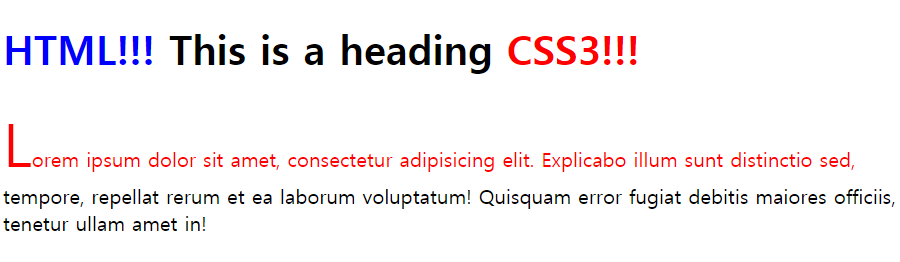
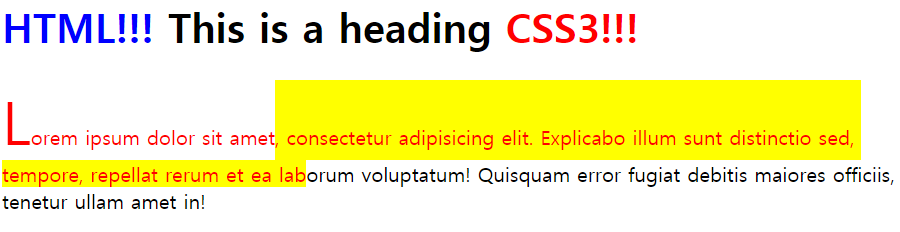
[update]  210916 review

diff --git a/CSS/universalSelector.html b/CSS/universalSelector.html
@@ -19,7 +19,6 @@
         <li>Milk</li>
       </ul>
   </div>
-
   <div>
     <p>The first paragraph.</p>
     <ul>
@@ -28,7 +27,6 @@
       <li>Milk</li>
     </ul>
   </div>
-
   <div>A range of document</div>
     <h2>Another list</h2>
     <ul>

diff --git a/CSS/02. 선택자(셀렉터).md b/CSS/02. 선택자(셀렉터).md
@@ -1,8 +1,8 @@
-# 선택자(셀럭터)
-HTML에 style을 적용하고자 하는 HTML 요소를 특정하는 목적으로 선택자(selector)를 사용합니다.
+# 선택자(셀렉터)
+HTML에 style을 적용하고자 하는 HTML 요소를 특정하는 목적으로 선택자(selector)를 사용합니다. 복수개의 선택자를 쉼표(,)를 이용해 구분할 수 있습니다.
 ![CSS Rule Set 예제](./images/css-syntax.png)
 
-복수개의 선택자를 쉼표(,)를 이용해 구분할 수 있다.<br>
+
 ✨ **예시**
 
 ```css
@@ -151,7 +151,6 @@ class 속성 값은 공백으로 구분하여 여러 개 지정할 수 있습니
   
 ![ClassSelector 예제](./images/ClassSelector.png)
 
-
 ## 3. 속성 선택자(Attribute Selector) -  [attr], [attr=value]
 |패턴|Description|
 |---|---|
@@ -179,6 +178,14 @@ input[type="submit"]{
 🧪 **[실행결과](attrEx1.html)**
 
 ![attrEx1 예제](./images/attrEx1.png)
+
+
+
+```css
+/* class="check"로 되어 있는 모든 `<input type="checkbox">` 요소의 스타일을 선택하는 Selector */
+input[type="checkbox"].check
+```
+
 
 ## 4. 속성 선택자 - [attr^], [attr$], [attr*]
 |패턴|Description|
@@ -279,8 +286,8 @@ li:first-child {
 
 |pseudo-class|Description|
 |---|---|
-|:nth-child(n)|셀렉터에 해당하는 모든 요소 중 앞에서 n번째 자식인 요소를 선택|
-|:nth-last-child(n)|셀렉터에 해당하는 모든 요소 중 뒤에서 n번째 자식인 요소를 선택|
+|:nth-child(n)|셀렉터에 해당하는 모든 요소 중 **앞에서 n번째 자식**인 요소를 선택|
+|:nth-last-child(n)|셀렉터에 해당하는 모든 요소 중 **뒤에서 n번째 자식**인 요소를 선택|
 
 n은 0부터 시작하는 정수이다. 0과 음수는 생략되기 때문에 2n+1과 2n-1, 3n-2와 3n+1은 결과적으로 같은 수열을 생성한다. odd(2n+1), even(2n)도 가능
 
@@ -409,7 +416,7 @@ li:nth-child(2n){
 ![selectorEx 예제](./images/selectorEx(2).png)
 
 
-"nth-child"는 순서에 따라 2번째 요소를 먼저 선택한 후 그 중에서 태그가 "p"인 것을 찾습니다. 따라서 2번째 자식 요소인 `<h2>서브제목</h2>`를 보고 "p" 태그 인지를 판단했기 때문에 선택된 요소가 없게 도비니다.
+"nth-child"는 순서에 따라 2번째 요소를 먼저 선택한 후 그 중에서 태그가 "p"인 것을 찾습니다. 따라서 2번째 자식 요소인 `<h2>서브제목</h2>`를 보고 "p" 태그 인지를 판단했기 때문에 선택된 요소가 없게 됩니다.
 
 반면, "nth-of-type"은 "p"태그인 자식 요소(들)을 먼저 선택한 후, 그 중에서 2번째를 찾습니다. 
 
@@ -452,10 +459,8 @@ HTML 요소의 상태에 따라 바뀌는 동적 가상 클래스 선택자
 |---|---|
 |:link |방문하지 않은 링크를 나타냅니다.|
 |:visited |	방문한 링크를 나타냅니다. |
-|:hover	| 하이퍼링크 태그(`<a>`) 요소 위로 마우스 커서를 위치했을 때 상태. :hover는 하이퍼리으 태그 뿐만 아닐 일반 태그에도 사용할 수 있습니다.|
-|:active|	셀렉터가 클릭 :hover	셀렉터에 마우스가 올라와 있을 때
-:active	셀렉터가 클릭된 상태일 때
-:focus	셀렉터에 포커스가 들어와 있을 때된 상태일 때|
+|:hover	| 하이퍼링크 태그(`<a>`) 요소 위로 마우스 커서를 위치했을 때 상태. :hover는 하이퍼링크 태그 뿐만 아닐 일반 태그에도 사용할 수 있습니다.|
+|:active|	셀렉터가 클릭된 상태일 때
 |:focus|	셀렉터에 포커스가 들어와 있을 때|
 
 input은 type에 따라 생김새가 달라지기 때문에 style 적용할 때, attr을 추가해주는 것이 좋습니다.
@@ -522,9 +527,9 @@ focus 예제
 
 |pseudo-class	|Description|
 |---|---|
-|:checked	|셀렉터가 체크 상태일 때|
 |:enabled	|셀렉터가 사용 가능한 상태일 때|
 |:disabled|	셀렉터가 사용 불가능한 상태일 때|
+|:checked	|셀렉터가 체크 상태일 때|
 
 
 ✨ **예시**
@@ -581,7 +586,7 @@ focus 예제
 
 ![uiElementStates 예제](./images/uiElementStates.png)
 
-## 9. 가상 요소 선택자 - ::before, ::after
+## 9. 가상 요소 선택자 - ::first-letter, ::first-line, ::before, ::after, ::selection
 클래스가 없지만 있는 것처럼 개념을 붙였다 하여 가상 클래스 선택자라 합니다. 가상 요소는 요소의 특정 부분에 스타일을 적용하기 위해 사용됩니다.
 - 요소 콘텐트의 첫글자 또는 첫줄
 - 요소 콘텐트의 앞 또는 뒤
@@ -650,11 +655,10 @@ focus 예제
 
 ![복합 셀렉터](./images/combinator.png)
 
-자신의 1 level 상위에 속하는 요소를 **부모 요소**, 1 level 하위에 속하는 요소를 **자손 요소(자식 요소)**라 합니다. 자신보다 n level 하위에 속하는 요소는 **후손 요소(하위 요소)**라 합니다.첫번째 선택자를 작성하고 spacing을 추가하고 뒤에 넣고 싶은 선택자를 작성
+자신의 1 level 상위에 속하는 요소를 **부모 요소**, 1 level 하위에 속하는 요소를 **자손 요소(자식 요소)** 라 합니다. 자신보다 n level 하위에 속하는 요소는 **후손 요소(하위 요소)** 라 합니다. 첫번째 선택자를 작성하고 spacing을 추가하고 뒤에 넣고 싶은 선택자를 작성
 
-### 1) 하위 셀렉터, 후손 셀렉터 (Descendant Combinator)
+### 1) 하위 셀렉터, 후손 셀렉터 (Descendant Combinator) 셀렉터A 셀렉터B
 
-> 셀렉터A 셀렉터B
 
 ✨ **예시**
 
@@ -1003,8 +1007,15 @@ focus 예제
 부모로부터 받은 color: blue는 유지되지만 이외에 전부 기본값
 
 ## 13. 우선순위
-1. 선언된 곳
-2. 명시도(적용범위가 적을수록 명시도가 높은 것!)
+### 1. 선언된 곳
+1) `<head>` 요소안의 style 요소
+2) `<style>` 요소안의 @import 문
+3) `<link>` 요소로 연결된 CSS 파일
+4) `<link>` 요소로 연결한 CSS 파일 안의 @import 문
+5) 최종 사용자가 연결한 CSS 파일
+6) 브라우저의 기본 스타일시트
+
+### 2. 명시도(적용범위가 적을수록 명시도가 높은 것!)
 ```css
 !important
 inline style > 
@@ -1015,6 +1026,6 @@ Type (Tag) >
 inherited
 ```
 
-3. 코드 위치
+### 3. 코드 위치
 
 

diff --git a/CSS/01. 개요.md b/CSS/01. 개요.md
@@ -89,12 +89,12 @@ selector로 html요소를 선택할 수 있습니다. 중괄호 내부에 요소
 - 소스코드의 순서가 뒤에 있으면 덮어씁니다.
 
 ### 2) 방법에 따른 스타일 우선순위
-1.<head> 요소안의 style 요소
-2.<style> 요소안의 @import 문
-3.<link> 요소로 연결된 CSS 파일
-4.<link> 요소로 연결한 CSS 파일 안의 @import 문
-5.최종 사용자가 연결한 CSS 파일
-6.브라우저의 기본 스타일시트
+1) `<head>` 요소안의 style 요소
+2) `<style>` 요소안의 @import 문
+3) `<link>` 요소로 연결된 CSS 파일
+4) `<link>` 요소로 연결한 CSS 파일 안의 @import 문
+5) 최종 사용자가 연결한 CSS 파일
+6) 브라우저의 기본 스타일시트
 
 
 ### 3) 선택자 우선순위
